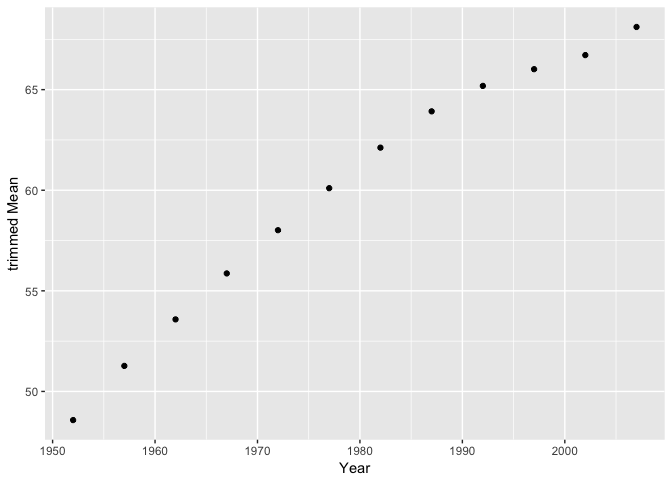
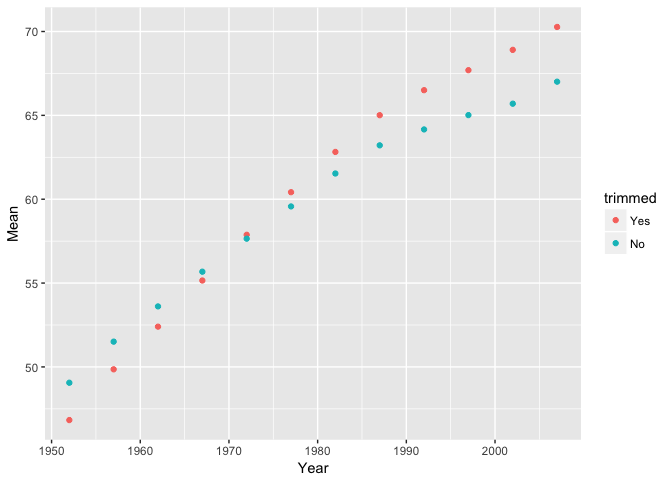
change Question 3 of hw3

diff --git a/Data expolration with dplyr and ggplot2 /hw03-dplyr_and_ggplot2.md b/Data expolration with dplyr and ggplot2 /hw03-dplyr_and_ggplot2.md
@@ -7,6 +7,7 @@ Frederike Basedow
 library(tidyverse)
 library(gapminder)
 library(knitr)
+library(reshape2)
 ```
 
 ### 1. Get the maximum and minimum of GDP per capita for all continents.
@@ -32,10 +33,8 @@ max_gdp_cont <- gr_cont %>% summarize(Max=max(gdpPercap))
 
 # merge results together into one data frame
 mm_gdp_cont <- merge(mean_gdp_cont, min_gdp_cont, by="continent")
-sum_gdp_cont <- merge(mm_gdp_cont, max_gdp_cont, by="continent")
-
-# rename continent variable
-sum_gdp_cont <- rename(sum_gdp_cont, Continent=continent)
+sum_gdp_cont <- merge(mm_gdp_cont, max_gdp_cont, by="continent") %>% 
+  rename(Continent=continent)
 
 # show results in nice table
 kable(sum_gdp_cont)
@@ -81,10 +80,14 @@ wm_lE_pop
     ## [1] 62.48168
 
 ``` r
-# calculate trimmed mean for life Exp, trimmed by 10%, for each year
-gr_yrs <- gapminder %>% group_by(year)
-nm_lEy <- gr_yrs %>% summarize(Mean=mean(lifeExp))
-nm_lEy <- rename(nm_lEy, Year=year)
+# group gapminder data by year
+gr_yrs <- gapminder %>% 
+  group_by(year)
+
+# calculate normal mean of life Exp per year
+nm_lEy <- gr_yrs %>% 
+  summarize(Mean=mean(lifeExp)) %>% 
+  rename(Year=year)
 kable(nm_lEy)
 ```
 
@@ -104,50 +107,53 @@ kable(nm_lEy)
 |  2007|  67.00742|
 
 ``` r
-tm_lE <- gr_yrs %>% summarize(trMean=mean(lifeExp, trim=0.1))
-tm_lE <-rename(tm_lE, Year=year)
-kable(tm_lE)
+# calculate trimmed mean, by 30%, for each year
+tm_lEy <- gr_yrs %>% 
+  summarize(trMean=mean(lifeExp, trim=0.30)) %>% 
+  rename(Year=year)
+kable(tm_lEy)
 ```
 
 |  Year|    trMean|
 |-----:|---------:|
-|  1952|  48.57668|
-|  1957|  51.26888|
-|  1962|  53.58075|
-|  1967|  55.86538|
-|  1972|  58.01444|
-|  1977|  60.10206|
-|  1982|  62.11694|
-|  1987|  63.92106|
-|  1992|  65.18519|
-|  1997|  66.01736|
-|  2002|  66.71641|
-|  2007|  68.11489|
+|  1952|  46.83114|
+|  1957|  49.85769|
+|  1962|  52.40092|
+|  1967|  55.15267|
+|  1972|  57.87755|
+|  1977|  60.41925|
+|  1982|  62.81936|
+|  1987|  65.00983|
+|  1992|  66.50200|
+|  1997|  67.69257|
+|  2002|  68.90531|
+|  2007|  70.27053|
 
 ``` r
-mn_lE_comp <- merge(tm_lE, nm_lEy, by="Year")
-mn_lE_comp
+# make matrix that includes both normal and trimmed mean for plotting
+mns_lE <- (merge(tm_lEy, nm_lEy, by="Year")) %>% 
+  column_to_rownames(var="Year") %>% 
+  as.matrix() %>% 
+  melt(value.name = "Mean") %>% 
+  rename(trimmed=Var2) %>% 
+  rename(Year=Var1) %>% 
+  mutate(trimmed = recode(trimmed, trMean="Yes", Mean="No"))
+head(mns_lE)
 ```
 
-    ##    Year   trMean     Mean
-    ## 1  1952 48.57668 49.05762
-    ## 2  1957 51.26888 51.50740
-    ## 3  1962 53.58075 53.60925
-    ## 4  1967 55.86538 55.67829
-    ## 5  1972 58.01444 57.64739
-    ## 6  1977 60.10206 59.57016
-    ## 7  1982 62.11694 61.53320
-    ## 8  1987 63.92106 63.21261
-    ## 9  1992 65.18519 64.16034
-    ## 10 1997 66.01736 65.01468
-    ## 11 2002 66.71641 65.69492
-    ## 12 2007 68.11489 67.00742
+    ##   Year trimmed     Mean
+    ## 1 1952     Yes 46.83114
+    ## 2 1957     Yes 49.85769
+    ## 3 1962     Yes 52.40092
+    ## 4 1967     Yes 55.15267
+    ## 5 1972     Yes 57.87755
+    ## 6 1977     Yes 60.41925
 
 ``` r
-tm_lE %>% 
-  ggplot(aes(Year, trMean)) +
+mns_lE %>% 
+  ggplot(aes(Year, Mean, colour=trimmed)) +
   geom_point() +
-  labs(x="Year", y="trimmed Mean")
+  labs(x="Year", y="Mean")
 ```
 
 ![](hw03-dplyr_and_ggplot2_files/figure-markdown_github/unnamed-chunk-4-1.png)
